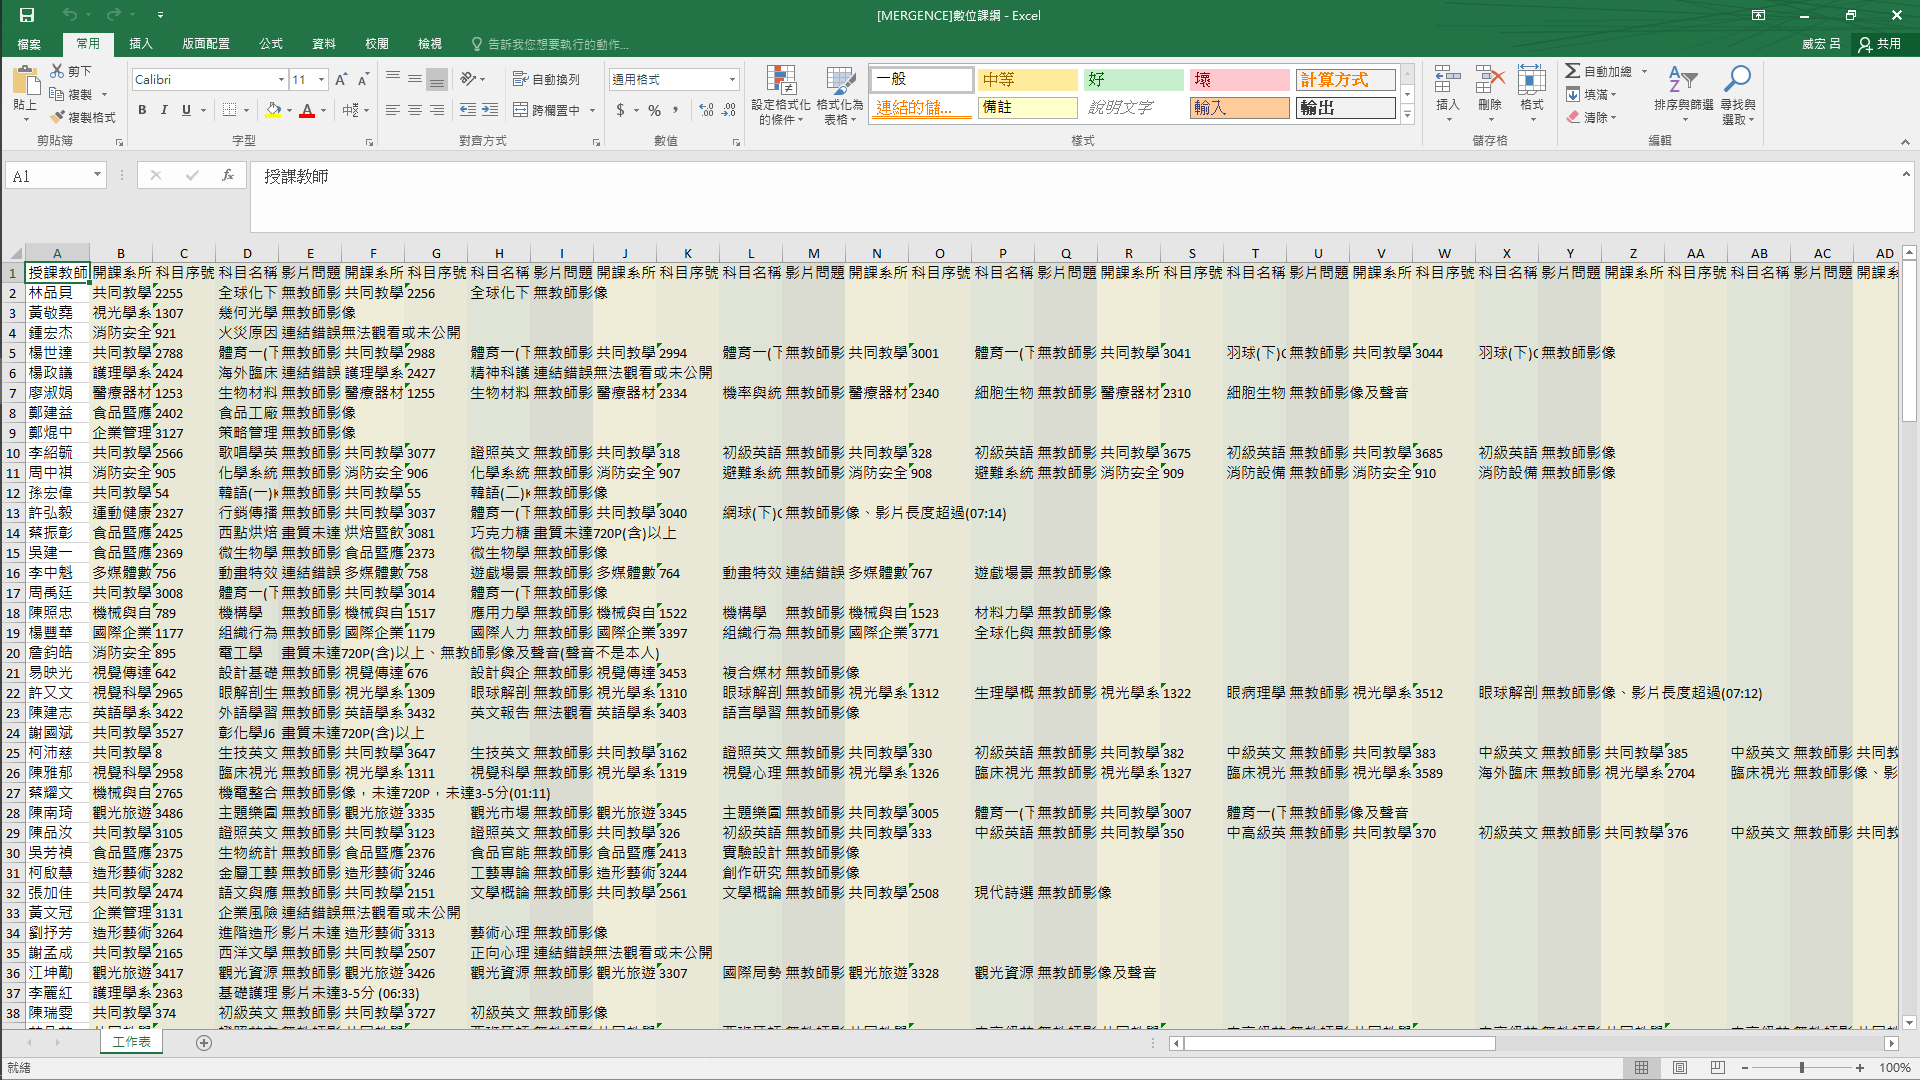
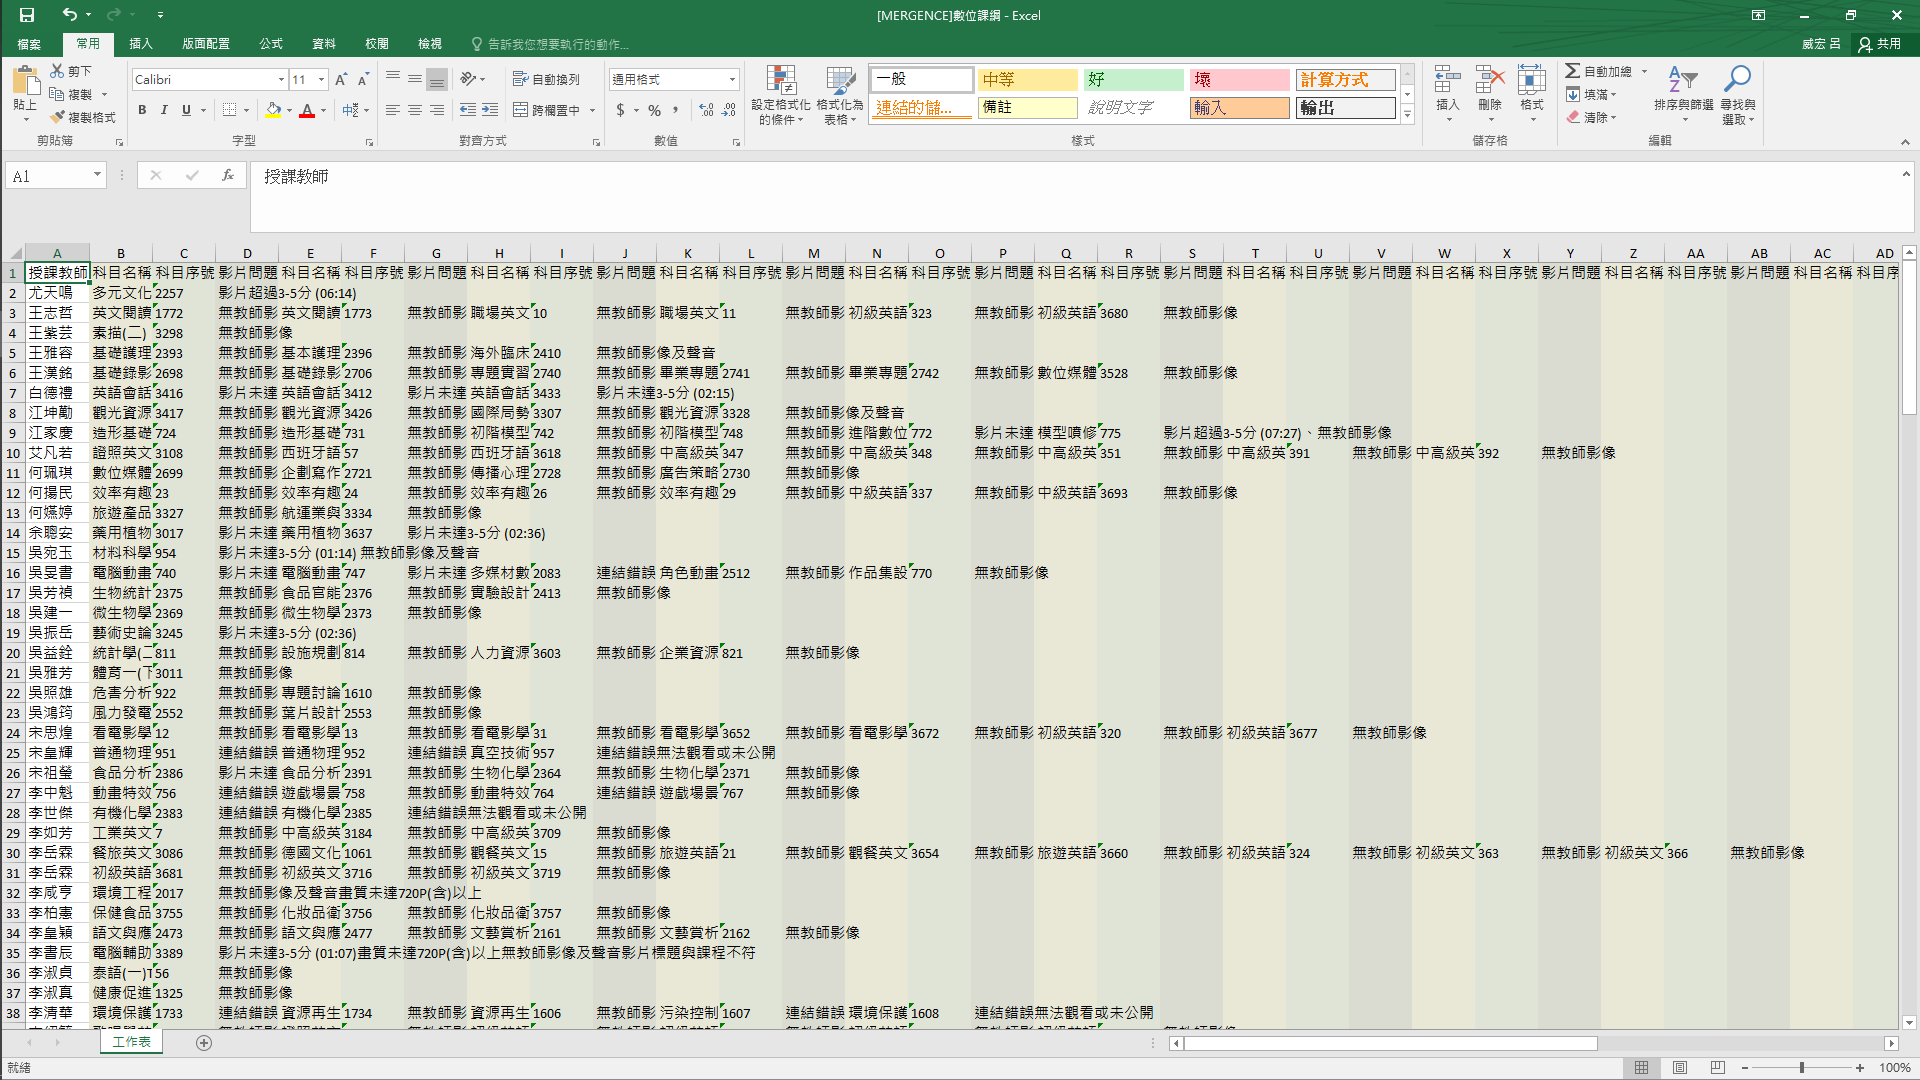
renew markdown file;

Changed region(s): [[0.0, 0.1222, 1.0, 1.0], [0.0, 0.0, 0.9062, 0.1833], [0.9375, 0.0, 1.0, 0.0611]]

diff --git a/README.md b/README.md
@@ -315,7 +315,7 @@
 
 **規則**
 
-- 數位課綱資料表須包含**教師姓名、開課系所、科目序號、科目名稱**及**影片問題**欄位
+- 數位課綱資料表須包含**教師姓名、科目序號、科目名稱**及**影片問題**欄位
 
 - 檔案格式必須為.xlsx
 
